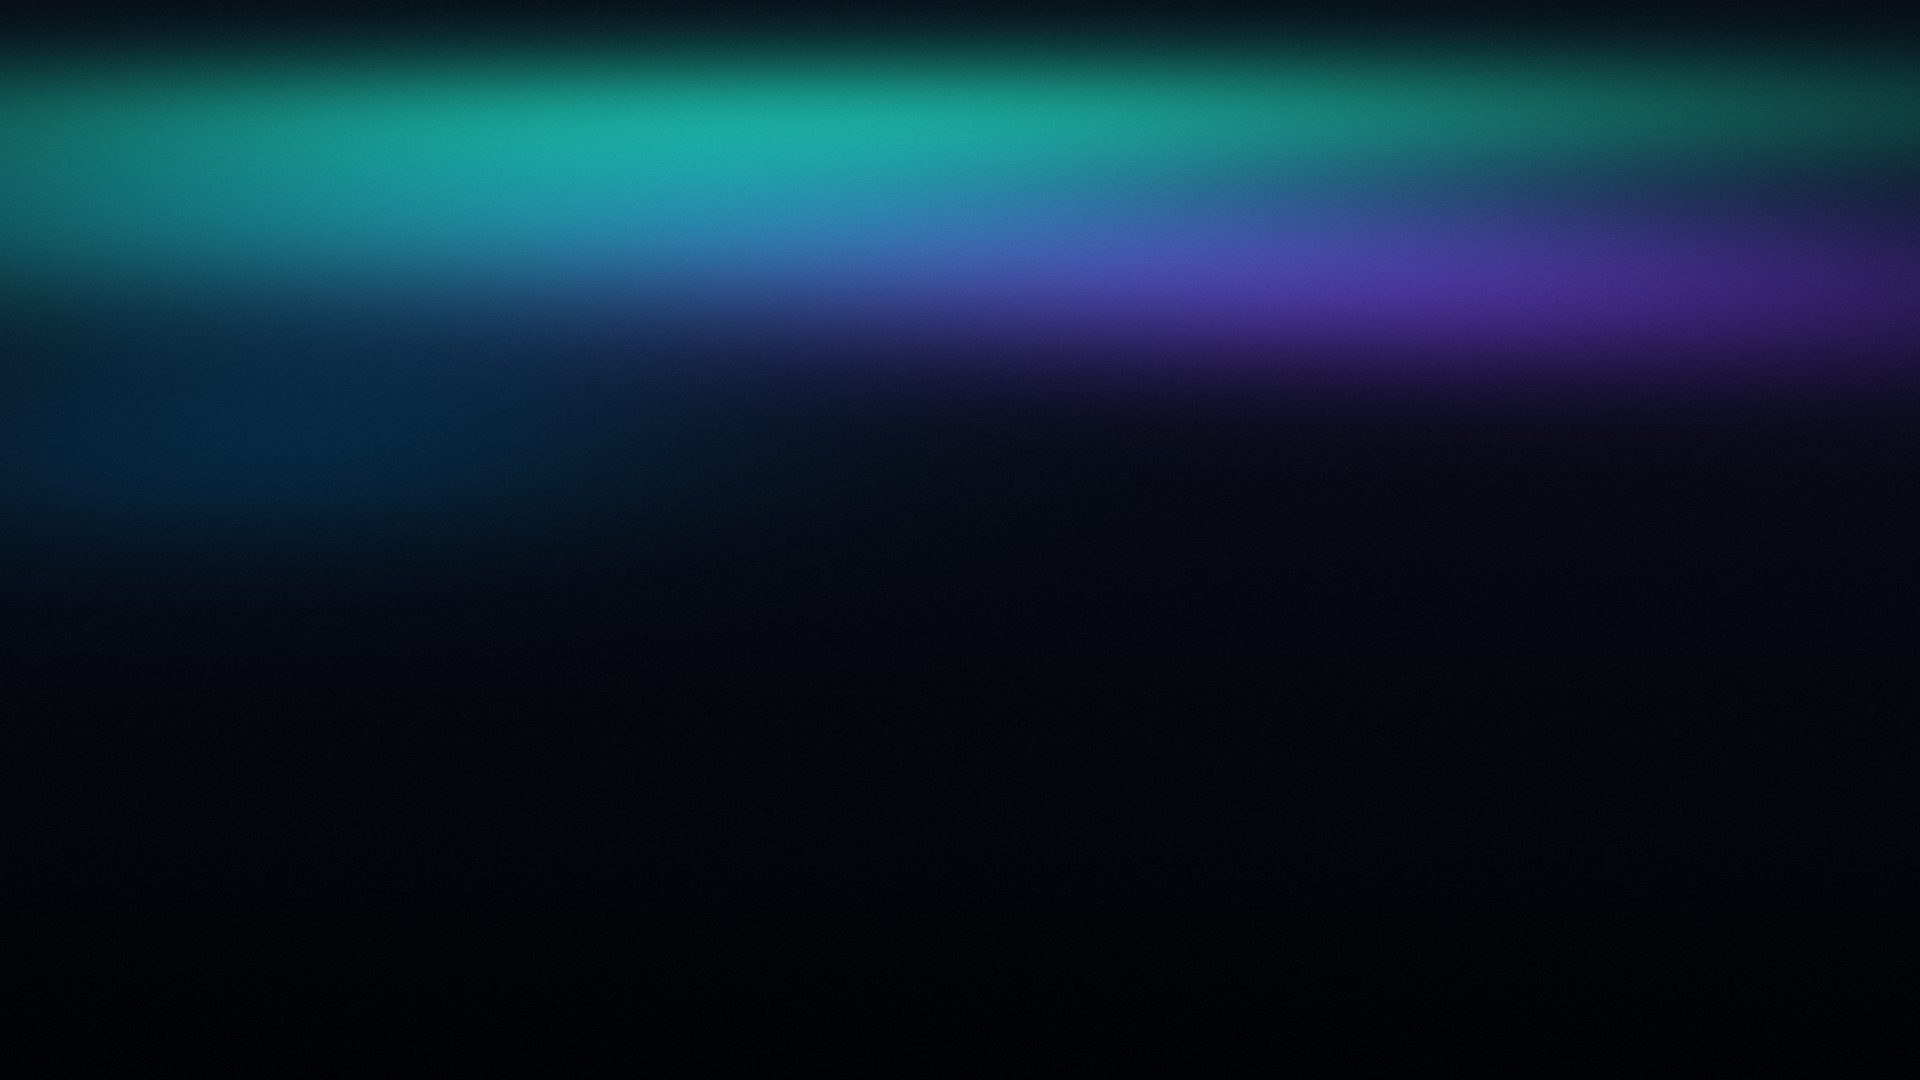
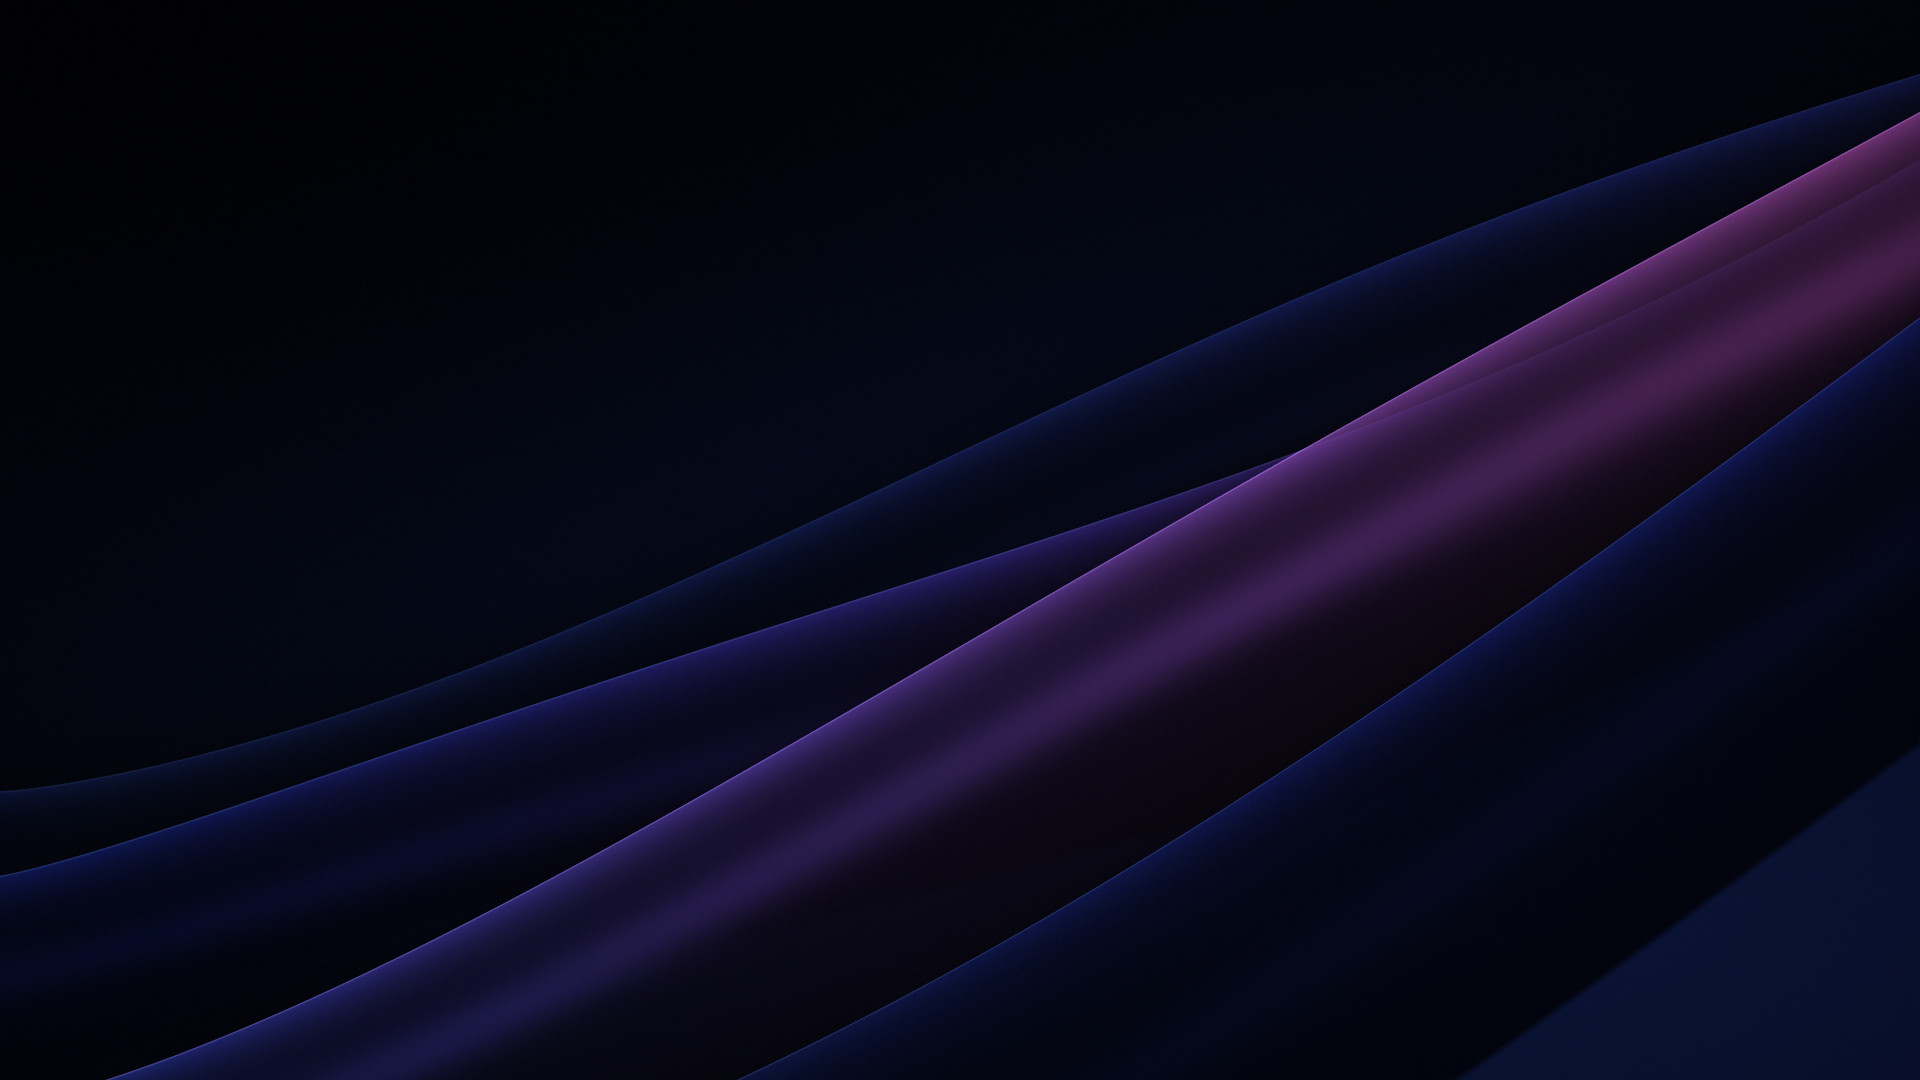
Liquid glass theme: its own dark silk wallpaper, with the script that draws it

diff --git a/themes/liquid-glass/wallpaper.py b/themes/liquid-glass/wallpaper.py
@@ -1,0 +1,66 @@
+# The liquid-glass wallpaper: translucent dark silk ribbons that sweep from the lower left to the upper right, each
+# lit along its upper edge with a sheen fold inside, so glass over them picks up colour; the top left stays dark for
+# the clock. Deterministic. Usage: python3 wallpaper.py wallpaper.jpg [preview.png] (needs numpy and Pillow).
+import sys, numpy as np
+from PIL import Image, ImageFilter
+
+W, H = 1920, 1080
+x = np.linspace(0, 1, W, dtype=np.float32)[None, :]
+y = np.linspace(0, 1, H, dtype=np.float32)[:, None]
+X = np.broadcast_to(x, (H, W)); Y = np.broadcast_to(y, (H, W))
+def hexc(h): return np.array([int(h[i:i+2], 16) / 255 for i in (1, 3, 5)], np.float32)
+INK, MIDNIGHT, INDIGO, IRIS, GLACIER, ROSE = map(hexc, ["#02040B", "#0A1233", "#2733A0", "#6A4FE0", "#9CCBFF", "#E58FD0"])
+def blur(a, r):
+    if a.ndim == 2:
+        im = Image.fromarray(np.clip(a * 255, 0, 255).astype(np.uint8))
+        return np.asarray(im.filter(ImageFilter.GaussianBlur(r)), np.float32) / 255
+    return np.stack([blur(a[..., i], r) for i in range(3)], -1)
+
+img = np.broadcast_to(INK, (H, W, 3)).copy()
+# A deep glow behind everything, low on the right.
+img += (MIDNIGHT * 0.9)[None, None] * np.exp(-(((X - 0.78) / 0.55) ** 2 + ((Y - 0.85) / 0.55) ** 2))[..., None]
+
+def ribbon(top, thick, col, hi, alpha, sheen_at, sheen):
+    t0 = top(x); t1 = t0 + thick(x)
+    if isinstance(col, tuple):   # colour along the ribbon: left end to right end
+        k = np.clip(X * 1.15 - 0.1, 0, 1)[..., None]
+        col = col[0][None, None] * (1 - k) + col[1][None, None] * k
+    u = (Y - t0) / (t1 - t0)                          # 0 at the upper edge, 1 at the lower
+    aa = 1.5 / H
+    m = np.clip((Y - t0) / aa, 0, 1) * np.clip((t1 - Y) / (aa * 6), 0, 1)
+    uu = np.clip(u, 0, 1)
+    # Across the ribbon: bright under the lit edge, dark in the body, a sheen fold, then falling into shadow.
+    shade = 0.20 + 0.80 * np.exp(-uu / 0.10) + sheen * np.exp(-((uu - sheen_at) / 0.10) ** 2)
+    c = (col if col.ndim == 3 else col[None, None]) * (shade * (1 - 0.55 * uu))[..., None]
+    c += hi[None, None] * (np.exp(-((Y - t0) * H / 1.4) ** 2) * 0.85)[..., None]   # the rim line
+    return c, m * alpha
+
+def curve(y0, rise, amp, freq, ph, bend=1.6):
+    return lambda t: y0 - rise * t ** bend + amp * np.sin(2 * np.pi * (freq * t + ph))
+
+DEEP = hexc("#14207A"); VIOLET = hexc("#7A3FD6"); PLUM = hexc("#B24FB8")
+layers = [
+    (curve(0.70, 0.62, 0.040, 0.8, 0.15, 1.2), lambda t: 0.20 + 0.10 * t, (MIDNIGHT * 1.5, INDIGO * 0.7), GLACIER * 0.30, 0.75, 0.45, 0.25),
+    (curve(0.84, 0.74, 0.050, 0.7, 0.60, 1.3), lambda t: 0.24 + 0.12 * t, (DEEP * 0.9, VIOLET * 0.75), GLACIER * 0.55, 0.78, 0.40, 0.35),
+    (curve(0.98, 0.86, 0.055, 0.6, 0.35, 1.35), lambda t: 0.28 + 0.12 * t, (INDIGO * 0.9, PLUM * 0.85), ROSE * 0.55 + GLACIER * 0.40, 0.82, 0.33, 0.50),
+    (curve(1.18, 0.86, 0.045, 0.55, 0.05, 1.4), lambda t: 0.40, (MIDNIGHT * 1.2, DEEP * 0.8), GLACIER * 0.45, 0.88, 0.50, 0.20),
+]
+rims = np.zeros((H, W, 3), np.float32)
+for top, thick, col, hi, alpha, sa, sh in layers:
+    c, a = ribbon(top, thick, col, hi, alpha, sa, sh)
+    # The ribbon above casts a soft shadow onto what is behind it, just over its edge.
+    t0 = top(x)
+    d = t0 - Y
+    img *= (1 - 0.35 * np.exp(-np.clip(d, 0, None) / 0.035) * (d > 0))[..., None]
+    img = img * (1 - a[..., None]) + c * a[..., None]
+    rims += hi[None, None] * (np.exp(-((Y - t0) * H / 2.0) ** 2) * a)[..., None]
+
+img += blur(np.clip(rims, 0, 1), 22) * 0.55          # bloom off the rims
+# Quiet top left for the clock and greeting, gentle vignette.
+img *= (1 - 0.70 * np.exp(-((X / 0.48) ** 2 + (Y / 0.34) ** 2)))[..., None]
+img *= (1 - 0.30 * np.clip((X - 0.5) ** 2 * 1.1 + (Y - 0.5) ** 2 * 1.5 - 0.06, 0, 1))[..., None]
+rng = np.random.default_rng(7)
+img += rng.normal(0, 1.1 / 255, img.shape).astype(np.float32)
+out = Image.fromarray(np.clip(img * 255 + 0.5, 0, 255).astype(np.uint8))
+out.save(sys.argv[1], quality=90, optimize=True, progressive=True, subsampling=0)
+if len(sys.argv) > 2: out.resize((960, 540), Image.LANCZOS).save(sys.argv[2])

diff --git a/themes/README.md b/themes/README.md
@@ -18,7 +18,7 @@ powershell -ExecutionPolicy Bypass -File tools\theme.ps1 -TvHost 192.168.1.50 th
 | `aurora/` | A dark aurora wallpaper (teal and violet on navy, darker at the bottom) with a matching background colour |
 | `dussehra/` | Festive skin for Dussehra (ends 21 Oct 2026): a marigold toran, a faint gold rangoli, a diya for Wi-Fi, a bell for Inputs, a marigold for Settings and a petal shower |
 | `six-columns/` | Six smaller tiles per row and one grid row visible under the dock |
-| `liquid-glass/` | The aurora wallpaper with `liquid_glass` on: the dock band, the top pills and the Inputs panel become frosted glass over it |
+| `liquid-glass/` | `liquid_glass` on over a dark silk wallpaper (ink, deep blue, violet and plum ribbons, drawn by `wallpaper.py`): the dock band, the top pills and the Inputs panel become frosted glass that picks up the ribbons' colour |
 
 ## Keys
 
